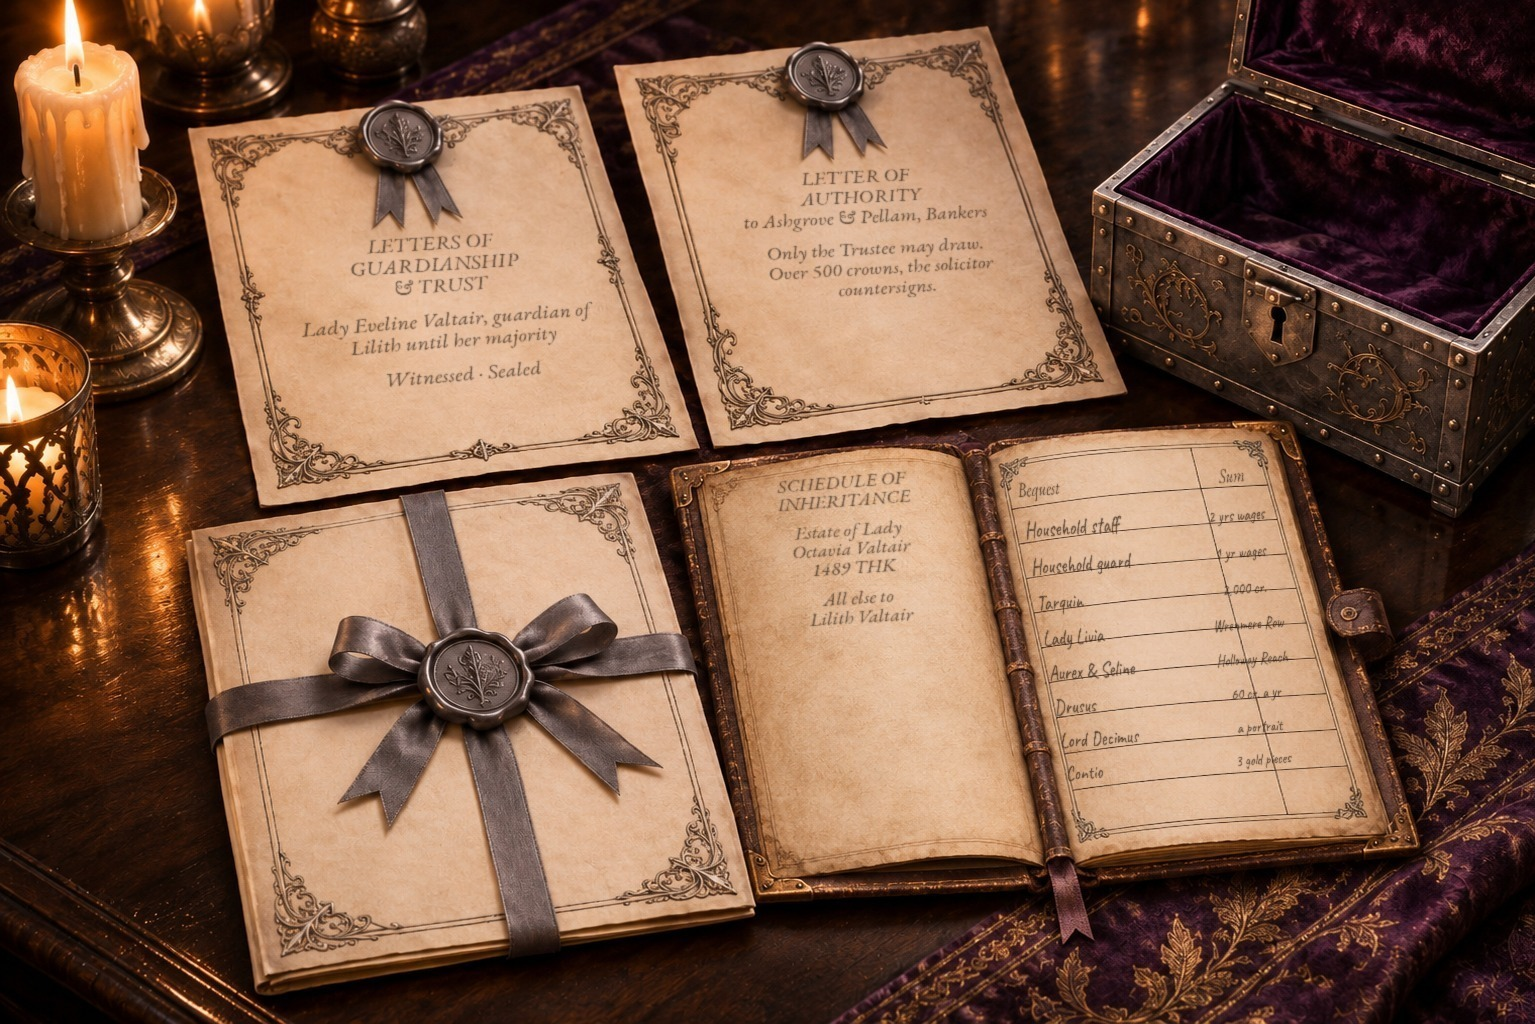
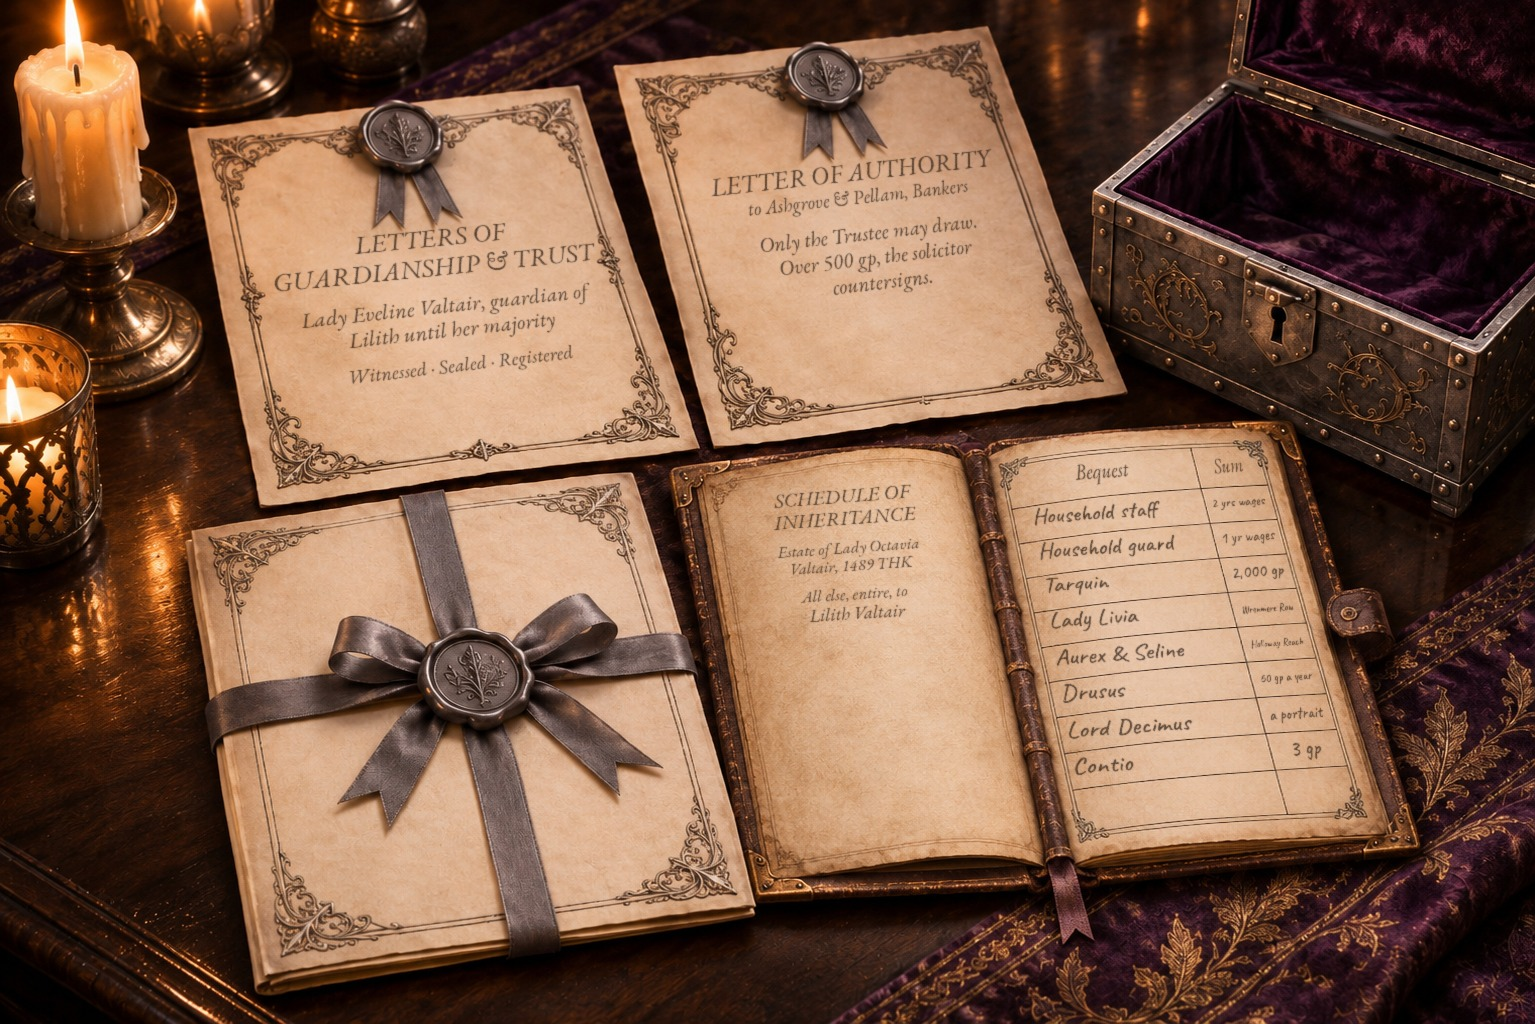
Valtair: papers squared to the page, ledger aligned, gp throughout
Claude-Session: https://claude.ai/code/session_01QqMC3jV4Jm9bLjV1D99fiy

diff --git a/oneshots/valtair-inheritance/handouts/3.html b/oneshots/valtair-inheritance/handouts/3.html
@@ -6,4 +6,4 @@ body{margin:0;background:#2b2520;font-family:Georgia,serif;color:#3a2a1a;display
 h1{font-size:22px;margin:0 0 12px;border-bottom:1px solid #b89f72;padding-bottom:8px;color:#4a3420}
 .t p{font-style:italic;font-size:17px;line-height:1.6} small{display:block;margin-top:18px;font:11px Arial;letter-spacing:2px;color:#7a6446}
 </style></head><body><div class="prop"><img class="art" src="3.jpg" alt="" onerror="this.remove()" onload="document.querySelector('.t').style.display='none'">
-<div class="t"><h1>The papers in the strongbox</h1><p><em>Inside the box, under the will: four documents, each heavily sealed. The deed is still tied in grey ribbon.</em></p><h4>I · Letters of Guardianship and Trust</h4><p><em>Know all persons by these presents that I, Octavia Valtair, Head of House Valtair, appoint my daughter, Lady Eveline Valtair, sole Guardian of the person and estate of my granddaughter Lilith Valtair, and sole Trustee of every holding devised to her, until the said Lilith attains her majority. No other person, by right of marriage, blood or seniority, shall exercise any authority over the said estate. Signed, sealed and delivered in the presence of the witnesses below. Witnessed: H. Ashby, Steward. B. Brannock, Sergeant of the Household Guard. Registered: Chancery of the Crown, Theria, 1489 THK.</em></p><h4>II · Letter of Authority to Messrs Ashgrove &amp; Pellam, Bankers</h4><p><em>You are instructed, upon my death, to honour drafts drawn upon the Valtair accounts in the name of Lilith Valtair when signed by her Trustee, Lady Eveline Valtair. No single draft above five hundred gold crowns shall be honoured without the countersignature of Master Ellery Crake, Solicitor. You shall render a full account each quarter to the Trustee and the said Solicitor. You shall honour no instruction from any other member of my family. O. Valtair.</em></p><h4>III · Schedule of Inheritance</h4><p><em>Household staff, both estates: two years’ wages, and continued employment. Household guard: one year’s wages. Tarquin Valtair: the illustrated histories, the silver travelling compass, and two thousand crowns in trust for his education. Lady Eveline Valtair: the emerald brooch; letters and journals. Lord Cassian Valtair: the political histories of the late Lord Severin. Lord Decimus Valtair: the portrait of our mother, which he has always admired. Contio Valtair: three gold pieces. Lady Livia Corvane: the townhouse in Wrenmere Row. Drusus Valtair: an allowance of sixty crowns a year, paid to his creditors. Aurex and Seline Valtair: the farms at Holloway Reach, jointly.</em></p><h4>IV · Deed of Conveyance and Succession</h4><p><em>I convey to Lilith Valtair the principal Valtair Estate in the capital, the Valtair country estate near Aldmere, and all deeds, rents, investments, hereditary privileges and rights of the Head of House Valtair. The signet of the House shall be delivered into the hands of my heir as I have already arranged. O. Valtair.</em></p></div><small>THE VALTAIR INHERITANCE · OBERON &amp; OMEGA</small></div></body></html>
+<div class="t"><h1>The papers in the strongbox</h1><p><em>Inside the box, under the will: four documents, each heavily sealed. The deed is still tied in grey ribbon.</em></p><h4>I · Letters of Guardianship and Trust</h4><p><em>Know all persons by these presents that I, Octavia Valtair, Head of House Valtair, appoint my daughter, Lady Eveline Valtair, sole Guardian of the person and estate of my granddaughter Lilith Valtair, and sole Trustee of every holding devised to her, until the said Lilith attains her majority. No other person, by right of marriage, blood or seniority, shall exercise any authority over the said estate. Signed, sealed and delivered in the presence of the witnesses below. Witnessed: H. Ashby, Steward. B. Brannock, Sergeant of the Household Guard. Registered: Chancery of the Crown, Theria, 1489 THK.</em></p><h4>II · Letter of Authority to Messrs Ashgrove &amp; Pellam, Bankers</h4><p><em>You are instructed, upon my death, to honour drafts drawn upon the Valtair accounts in the name of Lilith Valtair when signed by her Trustee, Lady Eveline Valtair. No single draft above five hundred gold pieces shall be honoured without the countersignature of Master Ellery Crake, Solicitor. You shall render a full account each quarter to the Trustee and the said Solicitor. You shall honour no instruction from any other member of my family. O. Valtair.</em></p><h4>III · Schedule of Inheritance</h4><p><em>Household staff, both estates: two years’ wages, and continued employment. Household guard: one year’s wages. Tarquin Valtair: the illustrated histories, the silver travelling compass, and two thousand gold pieces in trust for his education. Lady Eveline Valtair: the emerald brooch; letters and journals. Lord Cassian Valtair: the political histories of the late Lord Severin. Lord Decimus Valtair: the portrait of our mother, which he has always admired. Contio Valtair: three gold pieces. Lady Livia Corvane: the townhouse in Wrenmere Row. Drusus Valtair: an allowance of sixty gold pieces a year, paid to his creditors. Aurex and Seline Valtair: the farms at Holloway Reach, jointly.</em></p><h4>IV · Deed of Conveyance and Succession</h4><p><em>I convey to Lilith Valtair the principal Valtair Estate in the capital, the Valtair country estate near Aldmere, and all deeds, rents, investments, hereditary privileges and rights of the Head of House Valtair. The signet of the House shall be delivered into the hands of my heir as I have already arranged. O. Valtair.</em></p></div><small>THE VALTAIR INHERITANCE · OBERON &amp; OMEGA</small></div></body></html>
